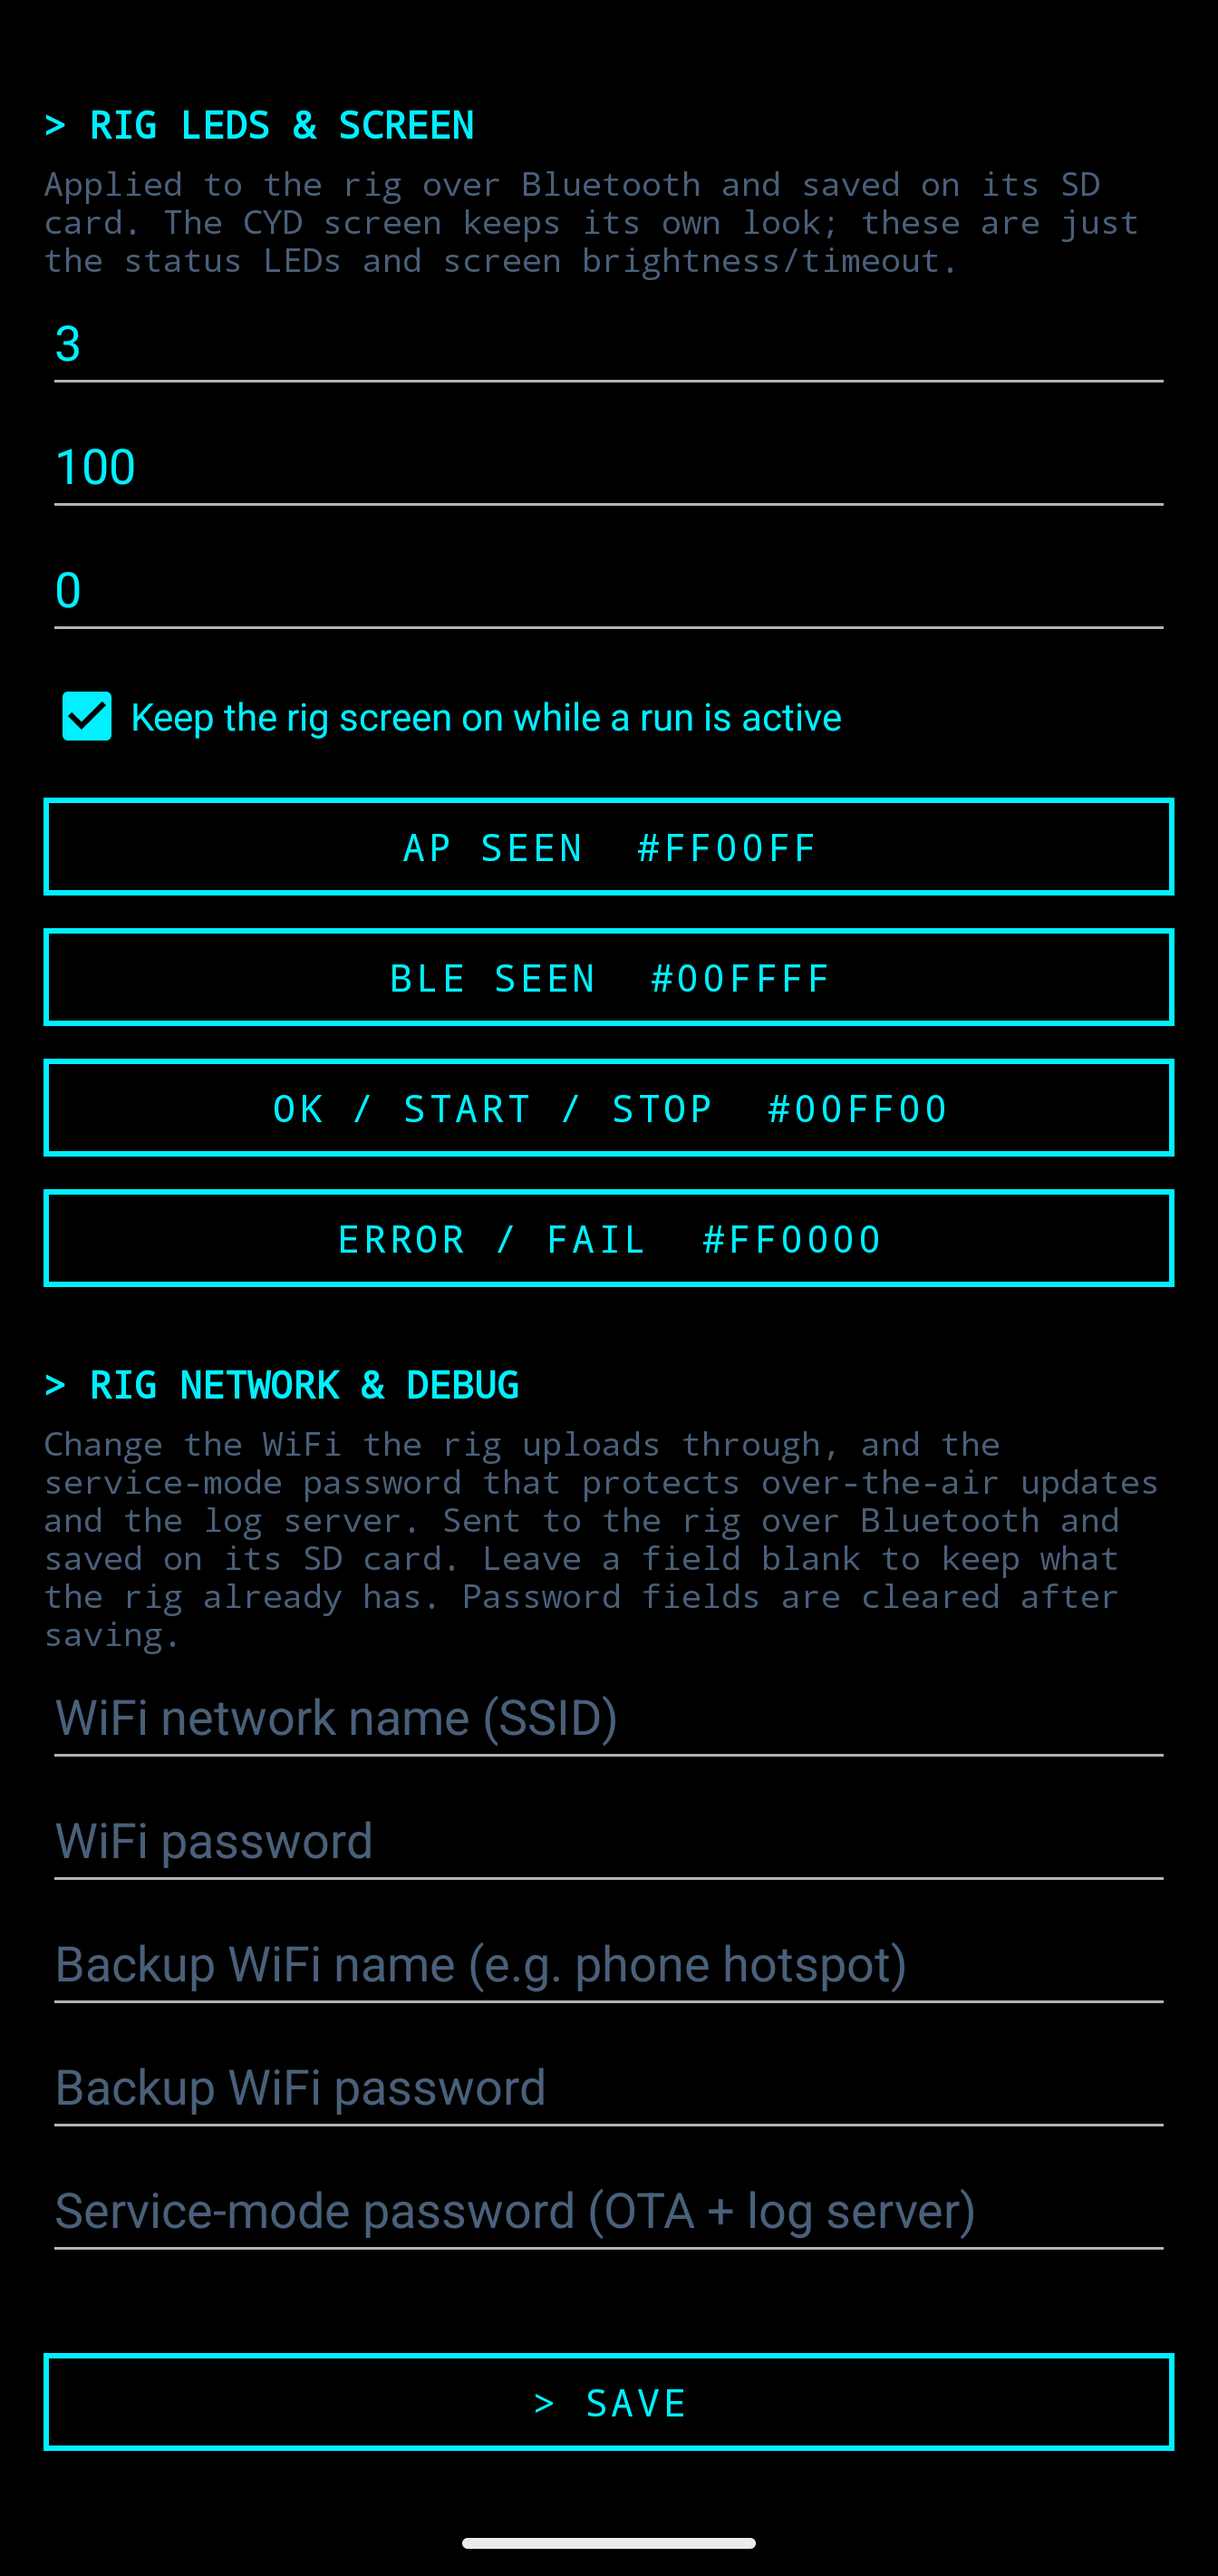
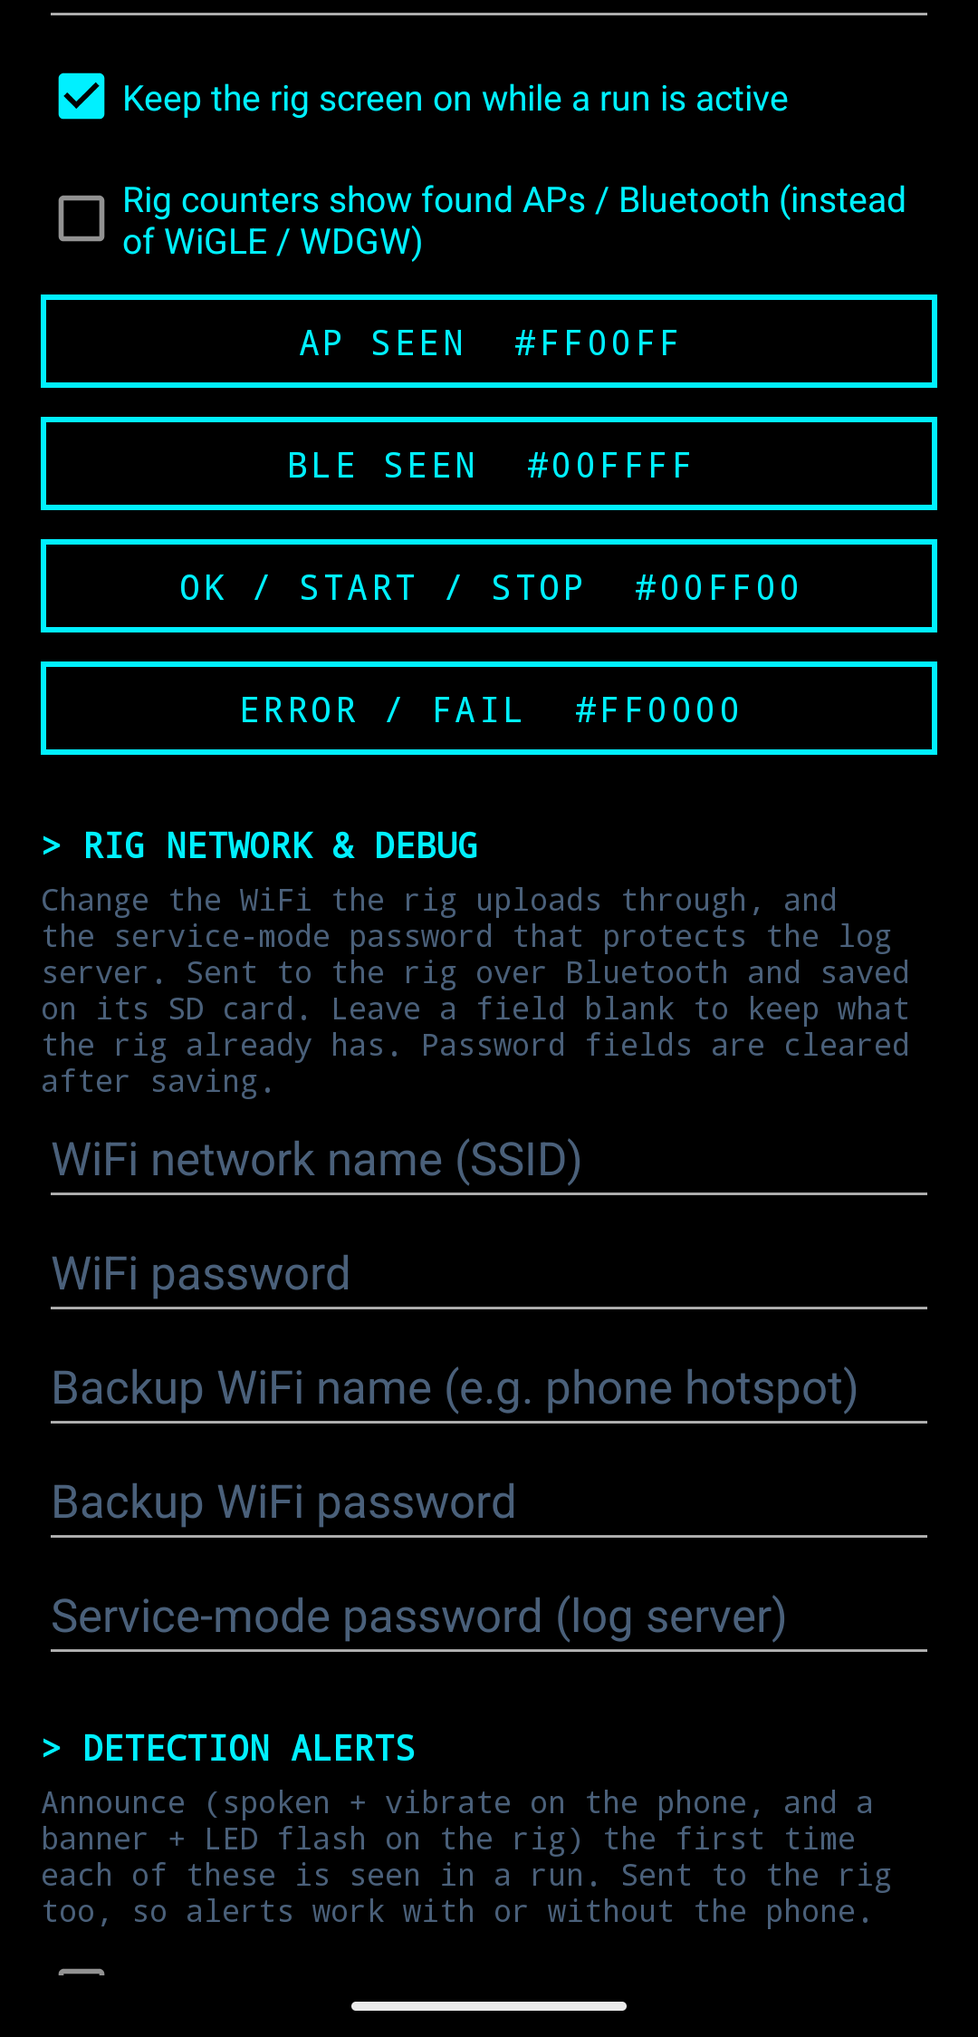
Docs + screenshots for the new live-tools, rig integration and settings
- README/PHONE_APP/CONFIG updated for: live tools that pull from both the rig
  and the phone (and work with no GPS fix), fox-hunt, the antenna-check radio
  selector, space-based retention (min_free_mb), the CYD count_mode toggle, and
  the home exclusion zone syncing to the rig while still showing devices in the
  live tools.
- Refreshed the four phone screenshots: dashboard with rig counts, Live WiFi and
  Live BLE showing the RIG group alongside the phone, and Settings with the new
  rig-counter toggle.
- Settings: corrected the exclusion-zone description to match the new behaviour
  (kept out of logs/uploads, still shown live; pushed to the rig on save).

Changed region(s): [[0.0306, 0.0311, 0.9778, 0.9964], [0.7028, 0.6539, 0.8861, 0.7162], [0.9472, 0.903, 0.9778, 0.9653]]

diff --git a/README.md b/README.md
@@ -17,25 +17,26 @@ A standalone car wardriving rig built from three cheap ESP32 boards. It logs 2.4
 - **Touchscreen control:** start/stop, upload and re-link, a live status bar, and 4 tabs.
 - **Resumes after power cuts:** it picks up where it left off when the car restarts.
 - **Automatic upload on arriving home** (geofence), or manual upload.
-- **Smart de-duplication:** distance-based for WiFi, per-run for BLE. It rides out GPS gaps of up to 15 s.
+- **Smart de-duplication:** distance-based for WiFi, per-run for BLE. It rides out GPS gaps of up to 15 s, and streams location-less sightings to the phone's live tools so they work indoors with no fix (those never enter the SD logs/uploads).
+- **Space-based retention:** every uploaded session is kept on the card until free space drops below ~1 GB, then the oldest uploaded files are trimmed; un-uploaded data is never deleted.
 - **Idle auto-stop** after 30 minutes parked, to protect the car battery.
 - **Status LEDs** on every board, so you can read the rig without a screen.
 - **Detection alerts:** the rig and phone flag notable devices as you pass them - Flock cameras, Flipper Zeros, card skimmers, police body cams, smart glasses, action cams and WiFi Pineapples - each category togglable on its own. The car screen shows a red banner and flashes an LED; the phone speaks the alert and vibrates.
 - **Service mode:** park the rig on WiFi to download its session logs from any browser - no unplugging, no SD-card removal. Started from the phone app or a touch on the screen; scanning pauses while it's up.
 - **Modular, multi-node scaling:** add more ESP32 sniffer nodes (e.g. Seeed XIAO boards) - up to 20 - and the firmware splits the 2.4 GHz channels across them automatically, so each node dwells on fewer channels and revisits them faster. Multiple **BLE nodes** scale too: since BLE has no channels to divide, they split the device-reporting load so a busy area doesn't overflow one node. The BLE scanner also runs on a tiny **Seeed XIAO ESP32-C3/S3**. See [Scaling the rig](docs/SCALING.md) for the diagrams, wiring and how to number nodes.
 - **Desktop app** ([`firmware/tools/`](firmware/tools/)): the go-to tool for the rig. Pull logs off the SD card, over USB, or over WiFi (no card removal); build an interactive **field report** (map, search, filters, plus the same Flock/Flipper/skimmer detection); **flash and manage** the boards - it **detects** what's plugged into each port and its node number, flashes any board over USB (WiFi/BLE board pickers for the Seeed XIAO variants, node-count/number controls, and a bulk "flash all"), and gives a serial console. One-click launcher with an app icon (`tools/install-desktop.sh`).
-- **Optional phone app** ([Nill OS - Wardriver](android/)): paired Bluetooth LE link with USB as a fallback, phone scanning (incl. 5 GHz), detections, live rig telemetry (RAM, SD space, link health), a "new finds this run" counter, exports (WigleWifi CSV, GPX, KML, Aircrack/airodump CSV), a widget and a quick-settings tile.
+- **Optional phone app** ([Nill OS - Wardriver](android/)): paired Bluetooth LE link with USB as a fallback, phone scanning (incl. 5 GHz), **live tools** (Live WiFi/BLE, Pineapple/AirTag/Flipper/Flock/skimmer/drone/mesh/glasses detection) that pull from **both the rig and the phone** and work indoors with no GPS fix, **fox-hunt** (long-press a device to home in on its signal) and an **antenna checker** with a per-radio selector, detections, live rig telemetry (RAM, SD space, link health), a "new finds this run" counter, exports (WigleWifi CSV, GPX, KML, Aircrack/airodump CSV), a widget and a quick-settings tile. Save the home exclusion zone and it syncs to the rig too.
 - **Map and car display** ([Organic Maps overlay](organic-maps-overlay/)): live status on the map and in Android Auto, with a start/stop button in the car.
 
 ## Screenshots
 
 <p align="center">
   <img src="docs/screenshots/phone-dashboard.png" width="205" alt="Dashboard">
-  <img src="docs/screenshots/phone-wifi-tools.png" width="205" alt="WiFi tools">
-  <img src="docs/screenshots/phone-bluetooth-tools.png" width="205" alt="Bluetooth tools">
+  <img src="docs/screenshots/phone-wifi-tools.png" width="205" alt="Live WiFi (rig + phone)">
+  <img src="docs/screenshots/phone-bluetooth-tools.png" width="205" alt="Live BLE (rig + phone)">
   <img src="docs/screenshots/phone-settings.png" width="205" alt="Settings">
 </p>
-<p align="center"><em>The Nill OS - Wardriver phone app: live dashboard, WiFi &amp; Bluetooth tools, and rig customization. (Account totals and map are hidden here for privacy.)</em></p>
+<p align="center"><em>The Nill OS - Wardriver phone app: live dashboard, and Live WiFi / Live BLE pulling from both the rig and the phone (each device tagged by source), long-press any of them to fox-hunt. (Account totals and map are hidden here for privacy.)</em></p>
 
 <p align="center">
   <img src="docs/screenshots/desktop-uploader.png" width="330" alt="Desktop tool - logs & report">

diff --git a/docs/PHONE_APP.md b/docs/PHONE_APP.md
@@ -3,10 +3,12 @@
 The rig works on its own, and **the phone is optional**. With the phone you get:
 
 - a live dashboard and history
-- the phone's own WiFi, BLE and cell scanning, merged in
+- the phone's own WiFi, BLE and cell scanning, merged in with the rig's
+- **live tools** (WiFi/Bluetooth tabs) - Live WiFi, Live BLE, Pineapple, AirTag/Flipper/Flock/skimmer/drone/mesh/glasses/action-cam/police-cam detection. Opening a tool starts scanning for it right away (no run needed); the list pulls from **both the rig and the phone**, and works indoors with no GPS fix.
+- **fox-hunt**: long-press any device in a tool to track its live signal (hot/cold + rising beep) and home in on it
+- an **antenna checker** (Settings → Antenna check) that reads a chosen device's live signal with peak hold and A/B capture - pick **which radio** to measure (Rig WiFi, Rig BLE, Phone WiFi, Phone Bluetooth, or strongest) so you can test the rig's own antenna
 - tracker and skimmer detection alerts
 - start/stop from the phone, the map and the car screen
-- an **antenna checker** (Settings → Antenna check) that reads a chosen device's live signal, with peak hold and A/B capture, so you can swap antennas and see which pulls it in strongest
 
 ## Nill OS - Wardriver (Android)
 
@@ -30,10 +32,11 @@ You need JDK 17 and the Android SDK. Android Studio installs both; `local.proper
 1. Grant **Location** (choose **Precise** - Bluetooth scanning withholds results with only Approximate, and select "Allow all the time" if you want it scanning with the screen off), **Nearby devices** (Bluetooth) and **Notifications**.
 2. Open **Settings**:
    - **Background:** tap **ALLOW BACKGROUND USAGE** so Android's battery optimizer doesn't pause scanning when the screen is off or the app is backgrounded.
-   - **Tools → Antenna check:** compare antennas on a live signal (needs a run active - it can start scanning itself).
+   - **Tools → Antenna check:** compare antennas on a live signal - it starts scanning itself (no run needed) and lets you pick which radio to measure, so you can test the rig's antenna against the phone's.
    - **Upload credentials:** your WiGLE "Encoded for use" token and your wdgwars API key. These are only needed if the phone should upload its own logs.
    - **Trip mode** (off by default): for trips away from home WiFi. While on, the phone pulls the rig's own log files over the Bluetooth link and uploads them with your keys over whatever connection the phone has (cell or WiFi); the rig holds off its own upload, so nothing is sent twice. Off = the rig uploads over its own WiFi (`config.cfg`) as usual.
-   - **Home exclusion zone:** tap **USE CURRENT GPS FIX AS HOME** while at home, and set a radius (for example 300 m). Anything seen inside it is dropped completely.
+   - **Home exclusion zone:** tap **USE CURRENT GPS FIX AS HOME** while at home, and set a radius (for example 300 m). Anything seen inside it is never logged, exported or uploaded (your home stays private), but still shows briefly in the live tools so fox-hunt and antenna check work at home. Saving also **pushes this zone to the rig** so its own logs match.
+   - **CYD counters:** a toggle switches the rig screen's headline numbers between **WiGLE / WDGW** and raw **found APs / Bluetooth**.
    - **Blacklists:** any MACs or SSIDs you never want logged, such as your own devices.
    - Tap **SAVE**.
 3. **Pair with your rig (once).** On the rig, open the **4.CFG** tab and tap **PAIR PHONE**. A 6-digit code appears for 60 seconds. With the app open, Android asks you to pair with *WardriveCYD*: type the code and tap OK. The dashboard shows `CYD: PAIR` until this is done.
@@ -51,9 +54,9 @@ If Bluetooth isn't available, plug the phone into the CYD's USB port with a USB-
 
 ### Privacy
 
-- The home exclusion zone and blacklists apply to everything the **app** shows, logs and uploads, from both the rig and the phone.
+- The home exclusion zone and blacklists keep matching devices out of everything the **app** logs, exports and uploads, from both the rig and the phone. They still appear briefly in the live tools (so fox-hunt/antenna check work at home) but are never stored or sent.
 - SSIDs ending in `_nomap` are always dropped.
-- The rig's own SD logs and uploads **do not** use the app's exclusion zone. See [Config → Keep it private](CONFIG.md#keep-it-private).
+- Saving the exclusion zone **pushes it to the rig too** (home lat/lon + radius over Bluetooth), so the rig's own SD logs and uploads use the same zone. See [Config → Keep it private](CONFIG.md#keep-it-private).
 - **No GPS fix:** devices are still gathered (the dashboard shows an amber `NO GPS FIX` warning), but saved without a position and **never uploaded or exported**, so nothing lands at 0,0. If a device is seen again once there's a fix, it's re-logged with a real position and that row is what uploads.
 
 ## Organic Maps overlay (optional)

diff --git a/docs/CONFIG.md b/docs/CONFIG.md
@@ -17,6 +17,7 @@ home_lon=-122.419400
 home_radius_m=150
 exclude_radius_m=0
 retention_days=0
+min_free_mb=1024
 led_brightness=3
 screen_brightness=100
 screen_timeout_sec=0
@@ -33,13 +34,15 @@ channel_hop_ms=150
 | `min_upload_interval_sec` | no | Minimum gap between automatic uploads when **no** home geofence is set. Default 21600 (6 hours). Tapping UPLOAD ignores it. |
 | `home_lat` / `home_lon` / `home_radius_m` | no | The home geofence for automatic "dock mode" uploads. When you arrive inside this circle with scanning stopped, the rig uploads once per arrival. Set `home_radius_m=0` or leave the keys out to disable it. |
 | `exclude_radius_m` | no | Drop any sighting within this many metres of `home_lat`/`home_lon` before logging or uploading it — the rig's home exclusion zone. Default 0 (off). |
-| `retention_days` | no | Delete **already-uploaded** session files older than this many days. The default, 0, keeps everything forever, which is the recommended setting. |
+| `retention_days` | no | Optional age cap: delete **already-uploaded** session files older than this many days. Default 0 (off) - storage is normally managed by `min_free_mb` instead. |
+| `min_free_mb` | no | Keep every uploaded session forever until the SD card drops below this much free space (default 1024 MB ≈ 1 GB), then delete the **oldest uploaded** files just until it's back above the line. Un-uploaded data is never deleted. Set 0 to never delete for space. |
 | `led_brightness` | no | Status LED brightness on all three boards, 0-100 %. Default 3 (dim, easy on the eyes at night). |
 | `screen_brightness` | no | CYD screen backlight, 0-100 %. Default 100. |
 | `screen_timeout_sec` | no | Blank the CYD screen after this many seconds without a touch. 0 = never (default). A touch wakes it. |
 | `screen_keep_on_scanning` | no | Keep the screen on while a run is active (`true`, default), or let it time out anyway (`false`). |
 | `led_color_ap` / `led_color_ble` / `led_color_ok` / `led_color_fail` | no | Status-LED colors on all three boards, hex `RRGGBB`. AP seen (default purple), BLE seen (cyan), ok/start/stop (green), error (red). |
 | `channel_hop_ms` | no | How long each board dwells on a channel before hopping. Default 150 (just over one beacon interval). wifi_node hops 1/6/11; the CYD sweeps 1–11. |
+| `count_mode` | no | CYD headline counters: `0` = WiGLE (WiFi) / WDGW (WiFi+BLE) (default), `1` = raw found APs / BT / ALL. Also toggleable from the phone app's Settings. |
 | `service_password` | no | Password for [service mode](USING_THE_RIG.md#service-mode-download-logs)'s log web server. When set, the web page and downloads require it (HTTP basic auth, any username). Left blank, service mode is open to anyone on the same WiFi — see [SECURITY.md](../SECURITY.md). Recommended if you use service mode. |
 | `alert_flock` / `alert_police` / `alert_skimmer` / `alert_flipper` / `alert_glasses` / `alert_actioncam` / `alert_pineapple` | no | Rig-side detection alerts: a red banner + LED flash on the CYD the first time each is seen in a run. `1`=on, `0`=off (default off). The phone app's DETECTION ALERTS toggles push these, so you normally set them there. |
 
@@ -58,7 +61,7 @@ Both apply the change live and save it back to `config.cfg`. Everything else is 
 
 - It is listed in `.gitignore`. Never commit it, and never post a photo of it.
 - The session CSVs on the card contain GPS coordinates of everywhere you drove, including the start and end of every trip. Treat them as location history.
-- `home_radius_m` (the geofence) only controls **when uploads happen**. To keep sightings near home out of the logs entirely, set **`exclude_radius_m`** — the rig drops any sighting within that many metres of `home_lat`/`home_lon` before writing or uploading it. This is separate from the Nill OS - Wardriver app's own exclusion zone; set both if you use the phone too.
+- `home_radius_m` (the geofence) only controls **when uploads happen**. To keep sightings near home out of the logs entirely, set **`exclude_radius_m`** — the rig drops any sighting within that many metres of `home_lat`/`home_lon` before writing or uploading it. If you use the phone app, saving its home exclusion zone **pushes `home_lat`/`home_lon`/`exclude_radius_m` to the rig over Bluetooth**, so the two stay in sync automatically; you can still set them by hand here for a phone-less rig.
 - SSIDs ending in `_nomap` or `_optout` are never logged (WiGLE's opt-out convention).
 
 ## Files the rig writes
